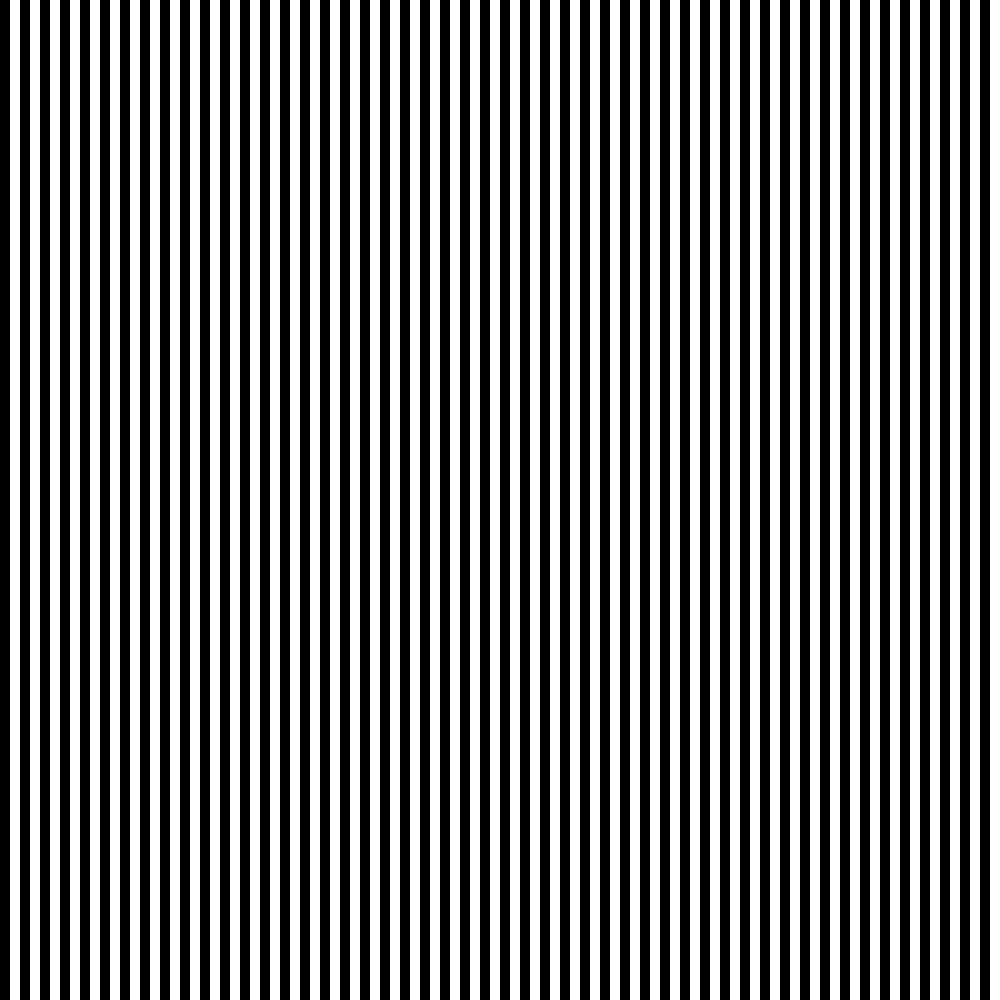
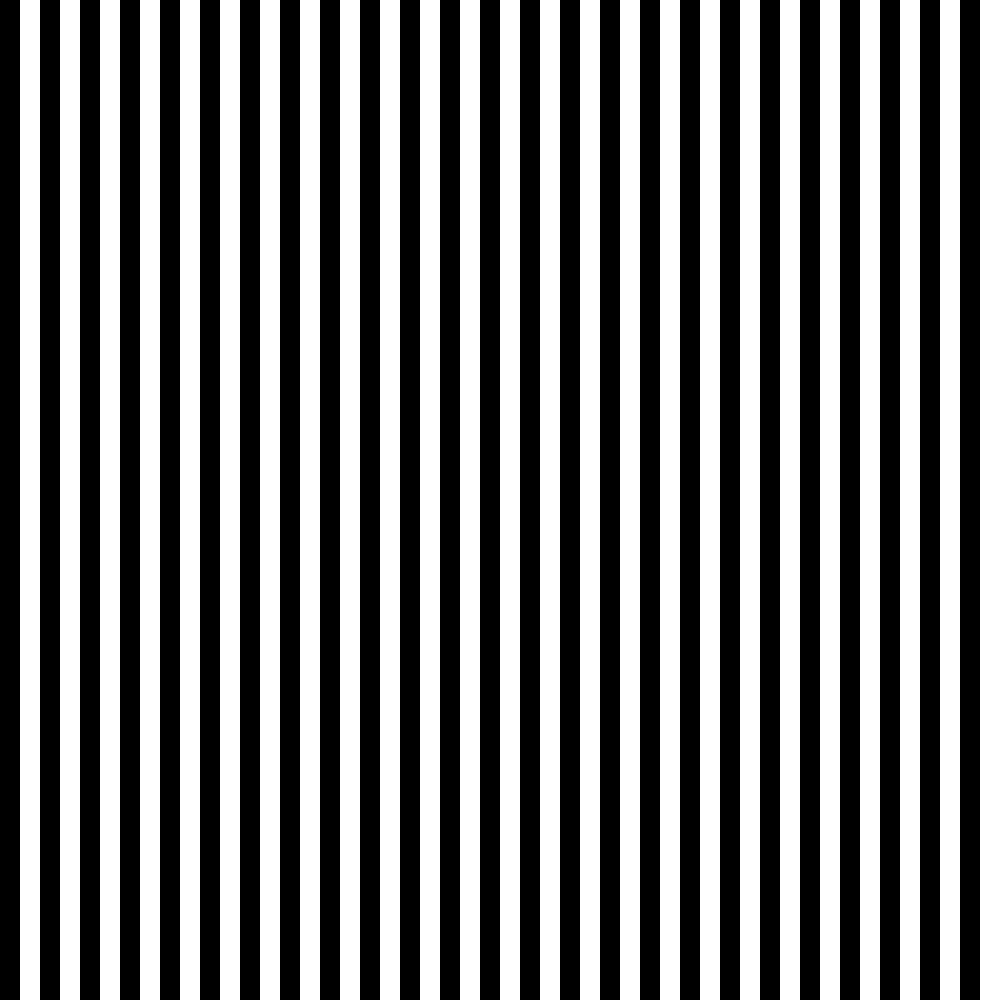
Got make_sample_images working

diff --git a/images/make_sample_images.py b/images/make_sample_images.py
@@ -3,38 +3,87 @@
 #####################################################
 import numpy as np
 import cv2
-
+from mpl_toolkits.mplot3d import Axes3D
+import matplotlib.pyplot as plt
 
 # Image of vertical stripes
 h,w = (1000,1000)
-n_stripes=10
+stripe_w = 20
 
 stripes = np.zeros((h,w))
 
-mask = np.int_(np.arange(w) / n_stripes) % 2
+mask = np.int_(np.arange(w) / stripe_w) % 2
 idx = np.where(mask)
 stripes[:, idx] = 255
 
-
 cv2.imwrite('stripes_input.png', stripes)
 
-X,Y = np.meshgrid(range(w),range(h))
-pts = np.vstack((X.reshape(1,-1), Y.reshape(1,-1)))
-
-pts = pts.astype('float32')
-pts = pts.reshape([1, h*w, 2])
-
-# distort points
+# Distortion Params
+x_0 = w//2
+y_0 = h//2
 K = np.eye(3)
-d = np.zeros(4)
+K[0,0] = x_0
+K[1,1] = y_0
+K[0,2] = x_0
+K[1,2] = y_0
+d = np.array([0., 0., 0., 0.])
 
-distorted_pts = cv2.fisheye.distortPoints(pts, K, d)
+# This does some magic to have the output be a good size
+Knew, valid_roi = cv2.getOptimalNewCameraMatrix(K, d, (w,h), 1)
+K_inv = np.linalg.inv(K)
 
-x_dist = distorted_pts[0,:,0]
-y_dist = distorted_pts[0,:,1]
-distorted_im = cv2.remap(stripes, x_dist, y_dist, interpolation=cv2.INTER_LINEAR)
+# Get pixel coordinates
+X,Y = np.meshgrid(range(w),range(h))
 
-cv2.imwrite('stripes.png', distorted_im)
+# Get ideal image coordinates my multiplying by K_inv
+pts = np.vstack((X.flatten(), Y.flatten(), np.ones(h*w)))
+pts_c = np.dot(K_inv, pts)
+x_c = pts_c[0,:]
+y_c = pts_c[1,:]
 
-print distorted
-print distorted.shape
+# Compute distortion amount
+r = np.sqrt(x_c**2 + y_c**2)
+th = np.arctan(r)
+
+th_2 = th*th
+th_3 = th_2*th
+th_5 = th_3*th_2
+th_7 = th_5*th_2
+th_9 = th_7*th_2
+th_d = th + d[0]*th_3 + d[1]*th_5 + d[2]*th_7 + d[3]*th_9
+
+# These apply undistortion
+#scale = r
+#scale[np.abs(scale) < 1e-5] = 1
+#scale = th_d / scale
+
+# These apply distortion
+scale = th_d
+scale[np.abs(scale) < 1e-5] = 1
+scale = r / scale
+
+# Reshape distortion scalar
+scale = scale.reshape(h,w)
+
+# This is equivilant to K_new * diag(scale,scale,1) * K_inv * [x,y,1]
+x_p = Knew[0,0] / K[0,0] * (X - x_0) * scale + Knew[0,2]
+y_p = Knew[1,1] / K[1,1] * (Y - y_0) * scale + Knew[1,2]
+
+# Convert to the right dtype for remap
+m1 = x_p.astype(np.float32)
+m2 = y_p.astype(np.float32)
+
+
+distorted_im = cv2.remap(stripes, 
+                         x_p.astype(np.float32), 
+                         y_p.astype(np.float32), 
+                         interpolation=cv2.INTER_LINEAR)
+
+cv2.imwrite('stripes_distorted.png', distorted_im)
+
+# Some debugging plots
+#plt.scatter(x_p, y_p, marker='.')
+#plt.axis('equal')
+#plt.show()
+#plt.imshow(distorted_im)
+#plt.axis('equal')
